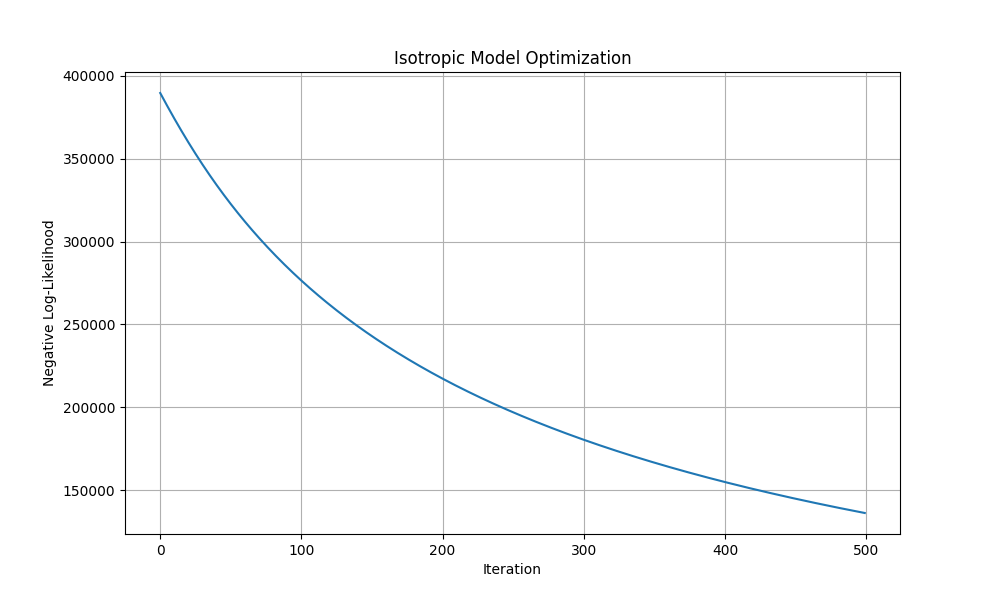
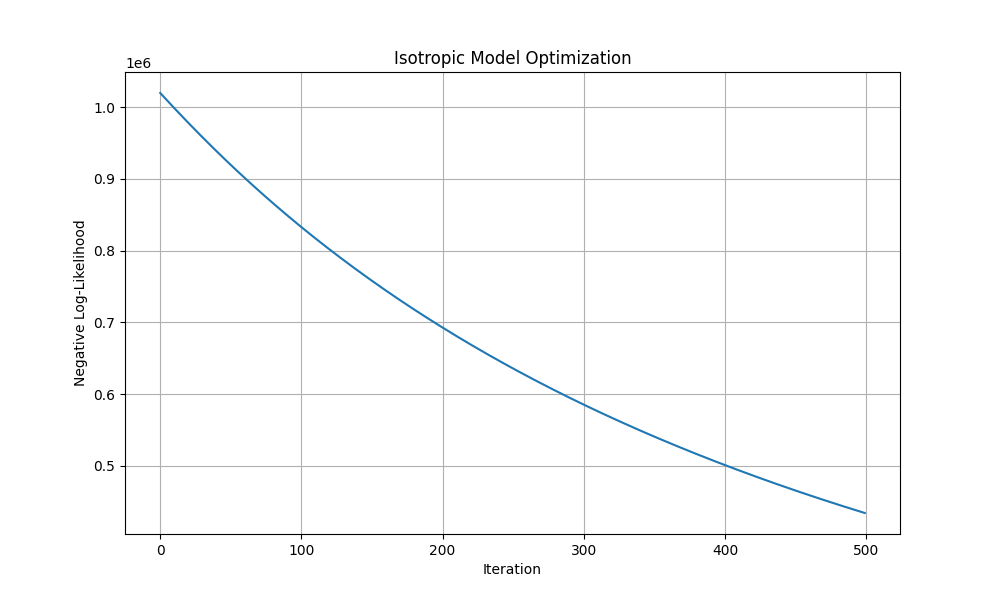
completed the hmc

diff --git a/code/hmc.py b/code/hmc.py
@@ -1,0 +1,171 @@
+import torch
+import pyro
+import pyro.distributions as dist
+from pyro.infer import MCMC, NUTS
+import pandas as pd
+import numpy as np
+import matplotlib.pyplot as plt
+
+from antikythera_model import AntikytheraModel
+from optimize_antikythera import load_hole_data
+
+# Load hole data
+data_filename = "data/1-Fragment_C_Hole_Measurements.csv"
+data, measured_positions, hole_indices = load_hole_data(data_filename)
+
+
+
+def bayesian_model(covariance_model="isotropic"):
+    # Ring parameters
+    r = pyro.sample("r", dist.Normal(77.0, 5.0))  # Prior on ring radius
+    N = pyro.sample("N", dist.Normal(354.0, 10.0))  # Prior on number of holes
+
+    # Section parameters
+    alpha_dict = {
+        section_id: pyro.sample(f"alpha_{section_id}", dist.Normal(-145.0 - section_id, 5))
+        for section_id in measured_positions.keys()
+    }
+
+    # Instantiate the model
+    model = AntikytheraModel(section_ids=measured_positions.keys(), 
+                           covariance_type=covariance_model)
+    
+    # Only sample the first hole from each section
+    if covariance_model == "isotropic":
+        # Sample the global sigma parameter once
+        sigma = pyro.sample("sigma", dist.HalfNormal(5.0))  # Standard deviation
+        
+        for section_id in measured_positions.keys():
+            if len(measured_positions[section_id]) > 0:  
+                hole_idx = 0
+                x_obs, y_obs = measured_positions[section_id][hole_idx]
+                
+                mean_x, mean_y = model.forward(section_id, hole_idx)  # Predicted location
+                
+                # Isotropic Gaussian likelihood
+                cov_matrix = torch.eye(2, dtype=torch.float64) * sigma**2
+                pyro.sample(
+                    f"obs_{section_id}_{hole_idx}",
+                    dist.MultivariateNormal(torch.tensor([mean_x, mean_y]), covariance_matrix=cov_matrix),
+                    obs=torch.tensor([x_obs, y_obs])
+                )
+    else:  # anisotropic
+        # Sample the global sigma parameters once
+        sigma_r = pyro.sample("sigma_r", dist.HalfNormal(5.0))  # Radial std dev
+        sigma_t = pyro.sample("sigma_t", dist.HalfNormal(5.0))  # Tangential std dev
+        
+        for section_id in measured_positions.keys():
+            # Only use the first hole (index 0) from each section
+            if len(measured_positions[section_id]) > 0:  # Make sure there's at least one hole
+                hole_idx = 0
+                x_obs, y_obs = measured_positions[section_id][hole_idx]
+                
+                mean_x, mean_y = model.forward(section_id, hole_idx)
+                
+                # Compute unit radial and tangential vectors
+                r_hat = torch.tensor([mean_x, mean_y]) / torch.norm(torch.tensor([mean_x, mean_y]))
+                t_hat = torch.tensor([-r_hat[1], r_hat[0]])  # Perpendicular to r_hat
+
+                # Covariance matrix aligned with radial/tangential directions
+                cov_matrix = (sigma_r**2) * torch.ger(r_hat, r_hat) + (sigma_t**2) * torch.ger(t_hat, t_hat)
+                pyro.sample(
+                    f"obs_{section_id}_{hole_idx}",
+                    dist.MultivariateNormal(torch.tensor([mean_x, mean_y]), covariance_matrix=cov_matrix),
+                    obs=torch.tensor([x_obs, y_obs])
+                )
+
+
+# Run MCMC sampling
+def sampling(covariance_model="isotropic"):
+    def model():
+        return bayesian_model(covariance_model)
+    nuts_kernel = NUTS(model)
+    mcmc = MCMC(nuts_kernel, num_samples=100, warmup_steps=200, num_chains=1)
+    mcmc.run()
+
+    # Extract posterior samples
+    posterior_samples = mcmc.get_samples()
+
+    # Select a hole for visualization
+    hole_section = list(measured_positions.keys())[1]  # Select the first section
+    hole_index = 0  # Select the first hole
+
+    # Create empty arrays for posterior predictive samples
+    num_samples = len(posterior_samples['r'])
+    pred_x = np.zeros(num_samples)
+    pred_y = np.zeros(num_samples)
+
+    # Instantiate the model (same as in bayesian_model)
+    model = AntikytheraModel(section_ids=measured_positions.keys(), 
+                            covariance_type=covariance_model)
+
+    # Generate posterior predictive samples manually
+# Generate posterior predictive samples manually
+    for i in range(num_samples):
+        # Get parameters from posterior samples
+        r_sample = posterior_samples['r'][i].item()
+        N_sample = posterior_samples['N'][i].item()
+        alpha_sample = posterior_samples[f'alpha_{hole_section}'][i].item()
+        if covariance_model == "isotropic":
+            sigma_sample = posterior_samples['sigma'][i].item()
+        else:
+            sigma_sample = {
+                "r": posterior_samples['sigma_r'][i].item(),
+                "t": posterior_samples['sigma_t'][i].item()}
+        
+        # Update model parameters correctly
+        with torch.no_grad():
+            # Convert Python floats to tensors before assigning
+            model.r.copy_(torch.tensor(r_sample,dtype=torch.float64))
+            model.N.copy_(torch.tensor(N_sample,dtype=torch.float64))
+            alpha_param = getattr(model, f'alpha_{hole_section}')
+            alpha_param.copy_(torch.tensor(alpha_sample, dtype=torch.float64))
+
+        # Get predicted mean position
+        mean_x, mean_y = model.forward(hole_section, hole_index)
+        mean_tensor = torch.tensor([mean_x, mean_y], dtype=torch.float64)
+        # Generate a sample from the observation distribution
+        if covariance_model == "isotropic":
+            cov_matrix = torch.eye(2, dtype=torch.float64) * sigma_sample**2
+        else:
+            dx = mean_x - measured_positions[hole_section][hole_index][0]
+            dy = mean_y - measured_positions[hole_section][hole_index][1]
+
+            r_mag = torch.sqrt(dx**2 + dy**2)
+                    
+            r_mag = torch.max(r_mag, torch.tensor(1e-10, dtype=torch.float64))
+                    
+            radial = torch.tensor([dx/r_mag, dy/r_mag], dtype=torch.float64)
+            tangential = torch.tensor([-dy/r_mag, dx/r_mag], dtype=torch.float64)
+                    
+            rotation = torch.stack([radial, tangential], dim=1)
+                    
+            diag_cov = torch.diag(torch.tensor([sigma_sample["r"]**2, sigma_sample["t"]**2], dtype=torch.float64))
+                    
+            cov_matrix = torch.matmul(rotation, torch.matmul(diag_cov, rotation.t()))
+            
+        sample = dist.MultivariateNormal(
+            mean_tensor, 
+            covariance_matrix=cov_matrix
+        ).sample()
+        
+        pred_x[i] = sample[0].item()
+        pred_y[i] = sample[1].item()
+
+    # Now plot as before
+    plt.figure(figsize=(8, 8))
+    plt.scatter(pred_x, pred_y, alpha=0.5, label=f"Posterior Samples ({covariance_model})")
+    plt.scatter(*measured_positions[hole_section][hole_index], color="red", label="Measured Position")
+    plt.xlabel("X Position")
+    plt.ylabel("Y Position")
+    plt.legend()
+    plt.title(f"Posterior Predictive Distribution for Hole {hole_index} in Section {hole_section} ({covariance_model})")
+    plt.savefig(f"graphs/posterior_predictive_{covariance_model}.png")
+    plt.show()
+
+def main():
+    sampling("isotropic")
+    sampling("anisotropic")
+
+if __name__ == "__main__":
+    main()

diff --git a/code/antikythera_model.py b/code/antikythera_model.py
@@ -17,18 +17,21 @@ class AntikytheraModel(nn.Module):
         
         self.r = nn.Parameter(torch.tensor(77.0, dtype=torch.float64))
         self.N = nn.Parameter(torch.tensor(354.0, dtype=torch.float64))
-        
+
+
         if covariance_type == "isotropic":
-            self.sigma = nn.Parameter(torch.tensor(0.5, dtype=torch.float64))
+            self._log_sigma = nn.Parameter(torch.tensor(np.log(0.3), dtype=torch.float64))
+
+
         else:
-            self.sigma_r = nn.Parameter(torch.tensor(0.2, dtype=torch.float64))
-            self.sigma_t = nn.Parameter(torch.tensor(0.5, dtype=torch.float64))
+            self._log_sigma_r = nn.Parameter(torch.tensor(np.log(0.3), dtype=torch.float64))
+            self._log_sigma_t = nn.Parameter(torch.tensor(np.log(0.3), dtype=torch.float64))
         
     
         # Initialize
         section_params = {}
         for i, section in enumerate(self.section_ids):
-            x0 = 80.0 + 0.5 * i
+            x0 = 80.0 + i
             y0 = 136.0
             alpha = -145.0 - i
             
@@ -40,6 +43,34 @@ class AntikytheraModel(nn.Module):
             setattr(self, f'x0_{section}', nn.Parameter(torch.tensor(x0, dtype=torch.float64)))
             setattr(self, f'y0_{section}', nn.Parameter(torch.tensor(y0, dtype=torch.float64)))
             setattr(self, f'alpha_{section}', nn.Parameter(torch.tensor(alpha, dtype=torch.float64)))
+
+    @property
+    def sigma_r(self):
+        return torch.exp(self._log_sigma_r)
+            
+            
+    @property
+    def sigma_t(self):
+        return torch.exp(self._log_sigma_t)
+    
+    @property
+    def sigma(self):
+        return torch.exp(self._log_sigma)
+    
+    @property
+    def N(self):
+        return self._N_float.round() 
+    
+    def forward(self, section, hole_index):
+        """Predict hole position for a given section and index."""
+        x0, y0, alpha = self.get_section_params(section)
+        
+        # Compute expected hole location
+        theta = 2 * torch.pi * (hole_index - 1) / self.N 
+        x_pred = x0 + self.r * torch.cos(theta + torch.deg2rad(alpha))
+        y_pred = y0 + self.r * torch.sin(theta + torch.deg2rad(alpha))
+
+        return x_pred, y_pred
     
     def get_section_params(self, section):
         """Get parameters for a specific section."""
@@ -64,19 +95,13 @@ class AntikytheraModel(nn.Module):
             if section not in self.section_ids:
                 continue
                 
-            x0, y0, alpha = self.get_section_params(section)
             section_positions = []
             
             for i in indices:
                 i_tensor = torch.tensor(float(i), dtype=torch.float64)
                 
             
-                phi = 2 * torch.pi * (i_tensor - 1) / self.N
-               
-                phi = phi + torch.deg2rad(alpha)
-                
-                x = x0 + self.r * torch.cos(phi)
-                y = y0 + self.r * torch.sin(phi)
+                x,y = self.forward(section, i_tensor)
             
                 pos = torch.stack([x, y])
                 section_positions.append(pos)
@@ -203,3 +228,70 @@ class AntikytheraModel(nn.Module):
             params['section_params'][section] = [x0.item(), y0.item(), alpha.item()]
         
         return params
+def load_hole_data(filename):
+    """
+    Load the hole location data from the file.
+    
+    Args:
+        filename: Path to the data file
+        
+    Returns:
+        data: DataFrame with measured data
+        measured_positions: Dictionary mapping section indices to lists of hole coordinates
+        hole_indices: Dictionary mapping section indices to lists of hole indices
+    """
+    data = pd.read_csv(filename)
+    
+    # Convert measured positions to hole indices
+    measured_positions = {}
+    for section, group in data.groupby("Section ID"):
+        measured_positions[section] = [np.array([x, y]) for x, y in zip(group["Mean(X)"], group["Mean(Y)"]) ]
+
+    hole_indices = {}
+    for section, positions in measured_positions.items():
+        hole_indices[section] = list(range(1, len(positions) + 1))
+    
+    return data, measured_positions, hole_indices
+
+
+def main():
+    filename = "data/1-Fragment_C_Hole_Measurements.csv"
+    data, measured_positions, hole_indices = load_hole_data(filename)
+
+    section_id = [i for i in range(1,8)]
+    model = AntikytheraModel(section_id)
+
+    #plot the predicted hole positions
+    plt.figure(figsize=(10, 10))
+    unique_sections = data["Section ID"].unique()
+    colors = plt.cm.get_cmap("tab10", len(unique_sections))
+    section_colors = {}
+    for i, section in enumerate(measured_positions.keys()):
+        section_colors[section] = colors(i)
+    for section, positions in measured_positions.items():
+        color = section_colors.get(section, 'k')
+        if positions is not None:
+            xs, ys = zip(*positions)
+            plt.scatter(xs, ys, color=color, label=f'Section {section} (Measured)', marker='o', alpha=0.7)
+    model_positions = model.calculate_model_positions(hole_indices)
+    for section, positions in model_positions.items():
+        if section not in measured_positions:
+            continue
+        color = section_colors.get(section, 'k')
+        if positions is not None:
+            xs = [float(x) for x in positions[:, 0].detach().numpy()]
+            ys = [float(y) for y in positions[:, 1].detach().numpy()]
+            plt.scatter(xs, ys, color=color, label=f'Section {section} (Predicted)', marker='x', alpha=0.5, s=100)
+    plt.xlabel('X (mm)')
+    plt.ylabel('Y (mm)')
+    plt.title("Predicted Hole Locations in the X-Y Plane")
+    plt.grid(True)
+    plt.axis('equal')
+    plt.legend()
+    plt.savefig("graphs/predicted_hole_positions.png")
+    plt.show()
+
+    return 0 
+
+if __name__ == "__main__":
+    main()

diff --git a/code/optimize_antikythera.py b/code/optimize_antikythera.py
@@ -2,32 +2,9 @@ import torch
 import pandas as pd
 import numpy as np
 import matplotlib.pyplot as plt
-from antikythera_model import AntikytheraModel
+from antikythera_model import AntikytheraModel, load_hole_data
 
-def load_hole_data(filename):
-    """
-    Load the hole location data from the file.
-    
-    Args:
-        filename: Path to the data file
-        
-    Returns:
-        data: DataFrame with measured data
-        measured_positions: Dictionary mapping section indices to lists of hole coordinates
-        hole_indices: Dictionary mapping section indices to lists of hole indices
-    """
-    data = pd.read_csv(filename)
-    
-    # Convert measured positions to hole indices
-    measured_positions = {}
-    for section, group in data.groupby("Section ID"):
-        measured_positions[section] = [np.array([x, y]) for x, y in zip(group["Mean(X)"], group["Mean(Y)"]) ]
 
-    hole_indices = {}
-    for section, positions in measured_positions.items():
-        hole_indices[section] = list(range(1, len(positions) + 1))
-    
-    return data, measured_positions, hole_indices
 
 def optimize_model(data, hole_indices, model_type="isotropic", learning_rate=0.001, num_iterations=1000):
     """
@@ -74,7 +51,7 @@ def optimize_model(data, hole_indices, model_type="isotropic", learning_rate=0.0
         if i % 10 == 0:
             print(f"Iteration {i}: Loss = {loss.item():.4f}, Gradient norm = {total_norm:.4f}")
             
-            # Print first few parameter gradients
+            # Print few parameter gradients (debug)
             for name, param in list(model.named_parameters())[:5]:
                 if param.grad is not None:
                     print(f"  {name}: grad = {param.grad.data}")

diff --git a/code/visualize.py b/code/visualize.py
@@ -25,7 +25,6 @@ def main():
     plt.legend(title="Section ID")
     plt.savefig("graphs/measured_hole_positions.png")
     plt.show()
-
     
 if __name__ == "__main__":
     main()
